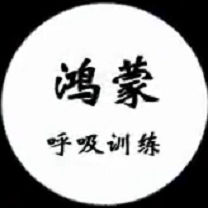
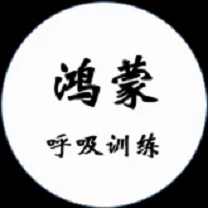
feat(all): 第二版
添加倒计时中转页面
修复首页图片偏左bug

diff --git a/entry/src/main/js/default/pages/daojishi/daojishi.js b/entry/src/main/js/default/pages/daojishi/daojishi.js
@@ -1,0 +1,44 @@
+import router from '@system.router';
+
+var counter = 3;
+var timer = null;
+
+var pv1 = null;
+var pv2 = null;
+
+export default {
+    data: {
+        imgsrc: "",
+        seconds: ""
+    },
+    onInit() {
+        this.imgsrc = '/common/' + counter.toString() + '.png';
+        this.seconds = counter.toString();
+
+        pv1 = this.data1;
+        pv2 = this.data2;
+    },
+    onShow() {
+        timer = setInterval(this.run, 1000);
+    },
+    run() {
+        counter -= 1;
+        if (counter != 0) {
+            this.imgsrc = '/common/' + counter.toString() + '.png';
+            this.seconds = counter.toString();
+        } else {
+            this.imgsrc = '';
+            this.seconds = '';
+            clearInterval(timer);
+            timer = null;
+
+            router.replace({
+                uri: 'pages/xunlian/xunlian',
+                params : {
+                    "key1": pv1,
+                    "key2": pv2
+                }
+            })
+        }
+    }
+}

diff --git a/entry/src/main/js/default/pages/xunlian/xunlian.js b/entry/src/main/js/default/pages/xunlian/xunlian.js
@@ -21,11 +21,11 @@ export default {
         count: ""
     },
     onInit() {
-        console.log('接收到页面传值为: ' + this.data1);
-        console.log('接收到页面传值为: ' + this.data2);
+        console.log('接收到页面传值为: ' + this.key1);
+        console.log('接收到页面传值为: ' + this.key2);
         // 接受传值
-        picker1value = this.data1;
-        picker2value = this.data2;
+        picker1value = this.key1;
+        picker2value = this.key2;
 
         // 计算转换
         picker1seconds = parseInt(picker1value) * 60;

diff --git a/entry/src/main/js/default/pages/daojishi/daojishi.css b/entry/src/main/js/default/pages/daojishi/daojishi.css
@@ -1,0 +1,19 @@
+.container {
+    flex-direction: column;
+    justify-content: center;
+    align-items: center;
+    width: 454px;
+    height: 454px;
+}
+.txt {
+    font-size: 38px;
+    text-align: center;
+    width: 454px;
+    height: 50px;
+    margin-top: 10px;
+}
+.img {
+    width: 100px;
+    height: 100px;
+    margin-bottom: 30px;
+}

diff --git a/entry/src/main/js/default/pages/index/index.js b/entry/src/main/js/default/pages/index/index.js
@@ -10,7 +10,7 @@ export default {
     },
     clickAction() {
         router.replace({
-            uri: 'pages/xunlian/xunlian',
+            uri: 'pages/daojishi/daojishi',
             params: {
                 "data1": picker1value,
                 "data2": picker2value,

diff --git a/entry/src/main/js/default/pages/index/index.css b/entry/src/main/js/default/pages/index/index.css
@@ -25,8 +25,6 @@
     text-align: center;
     width: 50px;
     height: 36px;
-    margin-left: 15px;
-    margin-right: 15px;
 }
 
 .btn{
@@ -41,4 +39,6 @@
 .img {
     width: 208px;
     height: 208px;
+    margin-left: 15px;
+    margin-right: 15px;
 }
